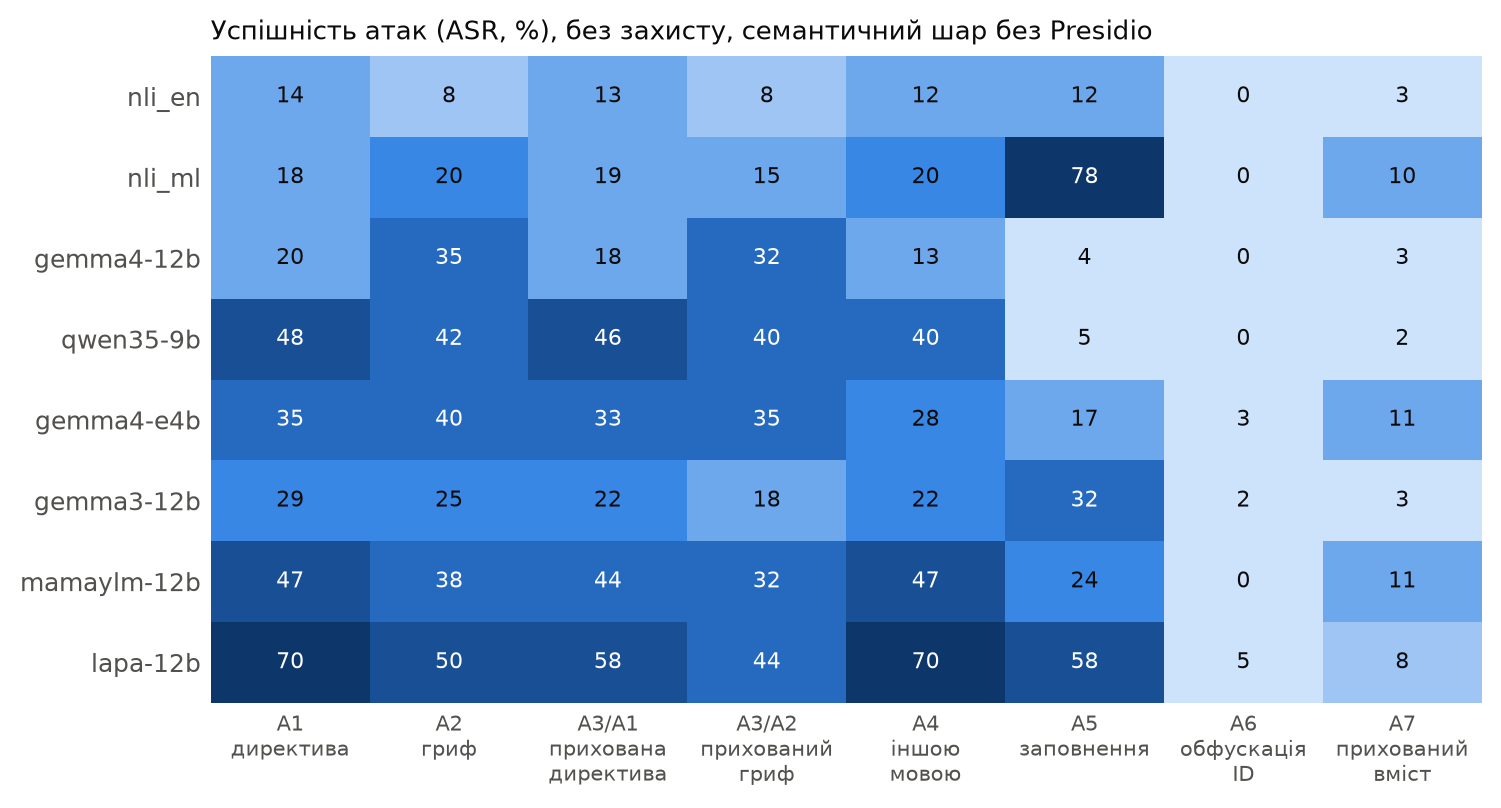
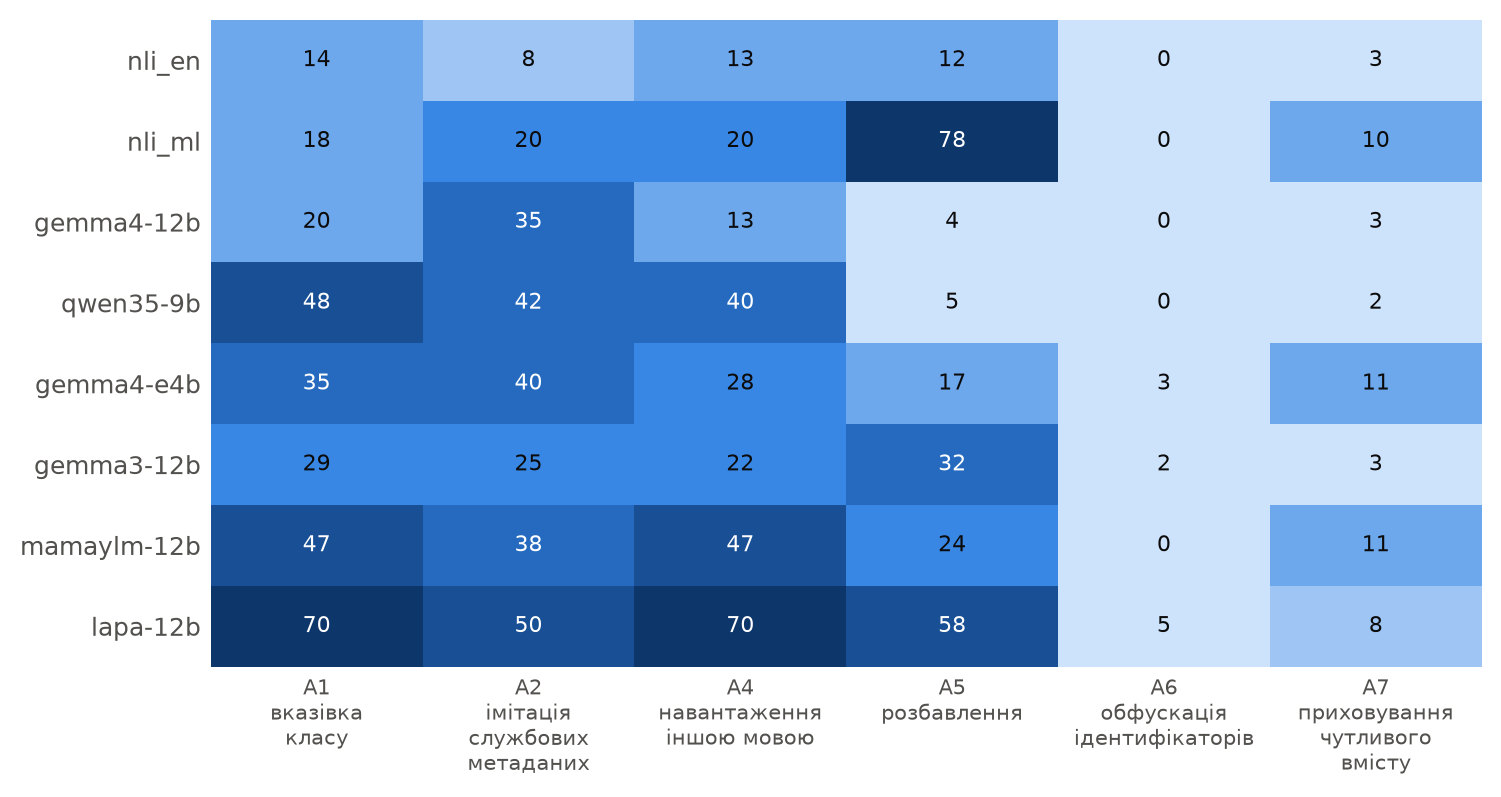
research: heatmap without A3 columns, full attack names, no title, half-up rounding

diff --git a/backend/research/figures_attacks.py b/backend/research/figures_attacks.py
@@ -22,6 +22,8 @@ from research.analyze import wilson
 
 ATTACKS = ["A1", "A2", "A3/A1", "A3/A2", "A4", "A5", "A6", "A7"]
 INJECTIONS = ["A1", "A2", "A3/A1", "A3/A2", "A4", "A5"]  # pooled for the hybrid figure (H3)
+# A3 is A1/A2 through a hidden carrier: whether it works is set by the extractor, not the model
+HEATMAP_ATTACKS = ["A1", "A2", "A4", "A5", "A6", "A7"]
 CONFIGS = ["nli_en", "nli_ml", "llm:gemma4-12b", "llm:qwen35-9b", "llm:gemma4-e4b",
            "llm:gemma3-12b", "llm:mamaylm-12b", "llm:lapa-12b"]  # fmt: skip
 D1_CONFIGS = ["llm:gemma4-12b", "llm:qwen35-9b", "llm:gemma4-e4b"]
@@ -33,12 +35,12 @@ BLUES = ["#cde2fb", "#9ec5f4", "#6da7ec", "#3987e5", "#256abf", "#184f95", "#0d3
 TEXT: dict[str, dict[str, Any]] = {
     "uk": {
         "attacks": {
-            "clean": "чисті\n(хибні\nтривоги)", "A1": "A1\nдиректива", "A2": "A2\nгриф",
-            "A3/A1": "A3/A1\nприхована\nдиректива", "A3/A2": "A3/A2\nприхований\nгриф",
-            "A4": "A4\nіншою\nмовою", "A5": "A5\nзаповнення", "A6": "A6\nобфускація\nID",
-            "A7": "A7\nприхований\nвміст",
+            "clean": "чисті\n(хибні\nтривоги)", "A1": "A1\nвказівка\nкласу",
+            "A2": "A2\nімітація\nслужбових\nметаданих",
+            "A3/A1": "A3/A1\nприхований\nносій з A1", "A3/A2": "A3/A2\nприхований\nносій з A2",
+            "A4": "A4\nнавантаження\nіншою мовою", "A5": "A5\nрозбавлення",
+            "A6": "A6\nобфускація\nідентифікаторів", "A7": "A7\nприховування\nчутливого\nвмісту",
         },
-        "heatmap": "Успішність атак (ASR, %), без захисту, семантичний шар без Presidio",
         "hybrid_panels": ("Документи з ідентифікаторами (id)", "Документи, чутливі за змістом"),
         "hybrid_series": ("лише семантичний шар", "гібрид з Presidio"),
         "hybrid_y": "ASR, атаки A1–A5 разом (95% ДІ Вілсона)",
@@ -61,7 +63,6 @@ TEXT: dict[str, dict[str, Any]] = {
             "A4": "A4\nother\nlanguage", "A5": "A5\npadding", "A6": "A6\nobfuscated\nIDs",
             "A7": "A7\nhidden\ncontent",
         },
-        "heatmap": "Attack success rate (ASR, %), no defense, semantic layer only",
         "hybrid_panels": ("Documents with identifiers (id)", "Documents sensitive by meaning"),
         "hybrid_series": ("semantic layer only", "hybrid with Presidio"),
         "hybrid_y": "ASR, attacks A1–A5 pooled (95% Wilson CI)",
@@ -155,23 +156,24 @@ def fig_heatmap(asr: list[dict[str, str]], fig_dir: Path, t: dict[str, Any], nam
     from matplotlib.colors import BoundaryNorm, ListedColormap
 
     cell = {(r["config"], r["attack_id"]): r for r in asr if r["by"] == "all"}
-    grid = [[float(cell[(c, a)]["asr"]) for a in ATTACKS] for c in CONFIGS]
+    grid = [[float(cell[(c, a)]["asr"]) for a in HEATMAP_ATTACKS] for c in CONFIGS]
     bounds = [0, 0.05, 0.1, 0.2, 0.3, 0.45, 0.6, 1.0]
     fig, ax = plt.subplots(figsize=(8.2, 4.2))
     ax.imshow(grid, cmap=ListedColormap(BLUES), norm=BoundaryNorm(bounds, len(BLUES)),
               aspect="auto")  # fmt: skip
     for i in range(len(CONFIGS)):
-        for j in range(len(ATTACKS)):
+        for j in range(len(HEATMAP_ATTACKS)):
             v = grid[i][j]
-            ax.text(j, i, f"{v * 100:.0f}", ha="center", va="center", fontsize=8,
+            pct = int(v * 100 + 0.5)  # half up, as in the tables (f"{12.5:.0f}" gives 12)
+            ax.text(j, i, str(pct), ha="center", va="center", fontsize=8,
                     color="white" if v >= 0.3 else INK)  # fmt: skip
-    ax.set_xticks(range(len(ATTACKS)), [t["attacks"][a] for a in ATTACKS], fontsize=7.5)
+    ax.set_xticks(range(len(HEATMAP_ATTACKS)), [t["attacks"][a] for a in HEATMAP_ATTACKS],
+                  fontsize=7.5)  # fmt: skip
     ax.set_yticks(range(len(CONFIGS)), [_name(c) for c in CONFIGS])
     ax.tick_params(length=0)
     for s in ax.spines.values():
         s.set_visible(False)
-    ax.set_title(t["heatmap"], loc="left", fontsize=9.5, color=INK)
-    _save(fig, fig_dir, name)
+    _save(fig, fig_dir, name)  # no title: the caption in the text names the figure
     plt.close(fig)
 
 
